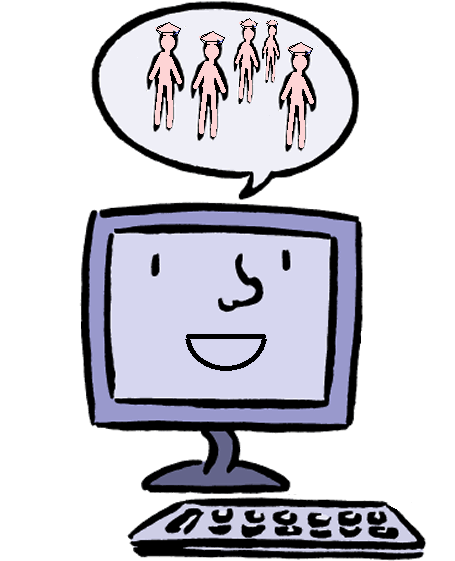
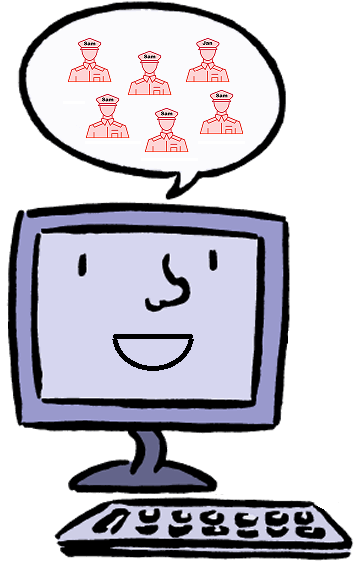
Add files via upload

diff --git a/index.html b/index.html
@@ -342,7 +342,7 @@
 	In programming, we command the machine only by Commanders:
 	<br><br>
 	<center>
-<img src="commanders.png" width="70%">
+<img src="names.png" width="70%">
 	</center>
 	<br>
     So it is namely the Commanders that make the machine do the works that we want. They are our helpers.
@@ -532,7 +532,7 @@
 <img src="object.png" width="60%">
 	</center>
 	<br>
-	In other words, we also might said that while running the code the Commander <a style="background-color: #99f599">print()</a> takes our object <a style="background-color: #ffff00">157</a> and prints (displays) this object as its result <a style="background-color: #00FFFF">157</a> on the screen:
+	In other words, we also might said that while running the code the Commander <a style="background-color: #99f599">print()</a> takes our object <a style="background-color: #ffff00">157</a> and prints (displays) this object as the result <a style="background-color: #00FFFF">157</a> on the screen:
 	<br>
 <center>
 <table>
@@ -568,11 +568,15 @@
 	<br>
 	Commanders are our main helpers in programming. When we need a Commander we call (invoke) it by writing its name in code and give it our data.
 	<br><br>
-	Here you might ask me: but where do these Commanders (like <a style="background-color: #99f599">print()</a>) come from in the mind of the computer — who created them?
+	Here you might ask me: But where do such Commanders, like <b>print()</b>, come from in the mind of the computer — who created them?
 	<br><br>
-	The short answer is that other coders (programmers) created these Commanders by writing basic codes. Those <b>other</b> coders created these Commanders for themselves and everyone else.   
+	The short answer is that other coders (programmers) created such Commanders by writing basic codes. Those other coders created these Commanders for themselves and everyone else. 
 	<br><br>
-	You also will be able to create your own Commanders really very soon.
+	Very soon, you will be able to create your own Commanders.
+	<br><br>
+	Now, you might also ask me one more question: How do we know that, for example, the Commander <b>print()</b> makes the machine do some specific work and no other?
+	<br><br>
+	The answer is that there is a list of such Commanders with a full description of what each Commander makes the machine do. We will take a look at this list a little bit later.
 	<br><br>
 	Back to code.
 	<br><br>
@@ -827,10 +831,16 @@
 	<br><br>
 	If needed, we call (invoke) Arithmetic Commanders and they make the machine do arithmetic operations on numbers.
 	<br><br>
+	Pay attention, here we give each calculation (for example, <a style="background-color: #ffff00">4 - 3</a>) as an obect to the Commander <a style="background-color: #99f599">print()</a>:
+	<br><br>
+	<center>
+<img src="calculation_as_object.png" width="60%">
+	</center>
+	<br>	
 	Great.
 	<br><br>
 	Please try <b>learning from code</b>.<br><br>
-	Simply imagine a situation in which you would not have any description (explanation) to your code and you should learn everything only from code itself: analyzing the code and the result. Learning programming this way step by step is called learning from code.
+	To do so, simply imagine a situation in which you would not have any description (explanation) to your code and should learn everything only from code itself: analyzing the code and the result. Learning programming this way step by step is called learning from code.
 	<br><br>
     This approach may be very effective. So try learning from code as much as possible.
     <br><br>
@@ -913,6 +923,59 @@
 	I hope you could.
 	<br><br>
 	Great!
+	<br><br>
+	</font0>
+
+	<fontHeading><center>Pocket Commanders</center></fontHeading>
+	<font0>
+	Just like we can control a candy:
+	<br>
+	 · can put the candy in the pocket<br>
+	 · can be storing the candy inside the pocket<br>
+	 · can take the candy from the pocket<br>
+	<br><br>
+	<center>
+<img src="candy.png" width="40%">
+	</center>
+	<br>
+	in programming, while running code, we can control objects the same way.
+	<br><br>
+	So, for example, we can control an object <b>5</b>:
+	<br>
+	 · can put the object <b>5</b> in the pocket<br>
+	 · can be storing the object <b>5</b> inside the pocket<br>
+	 · can take the object <b>5</b> from the pocket<br>
+	<br><br>
+	<center>
+<img src="object5.png" width="40%">
+	</center>
+	<br>
+	Of course, such pockets, in programming, are virtual and exist only in the mind of the machine. We cannot feel them by our hands. But they really exist and can store objects.
+	<br><br>
+	For example, to control the object <b>5</b>, we must create a special Commander -- <b>Pocket Commander</b> -- which automatically makes the machine create a virtual pocket for that object.
+	<br><br>
+	It is important to remember and understand that Commanders (incl. Pocket Commanders) can make the machine do what we want.
+	<br><br>
+	Pocket Commanders are called this way not because they are miniature or capable of being carried in one's pocket, but only because they automatically make the machine create virtual pockets for objects.
+	<br><br>
+	Interestingly, when creating Commanders we must give them names just like parents give names to their kids when the kids are born.
+	<br><br>
+	There are 2 sorts of Pocket Commanders that we might create:
+	<br>
+	  · invariable Pocket Commanders<br>
+	  · variable Pocket Commanders.
+	<br><br>
+	</font0>
+
+	<fontHeading><center>Invariable Pocket Commanders</center></fontHeading>
+	<font0>
+	If we create an invariable Pocket Commander it means that then we cannot change data controlled by this Commander.
+	<br><br>
+	So, for example, to create an invariable Pocket Commander named Sam we must write val or let before the Commander’s name:
+	<br><br>
+
+
+
 	<br><br><br><br>
 
 
